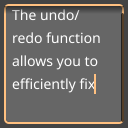
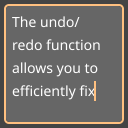
Refresh Entry scroll bounds when undo restores fitting content

Changed region(s): [[0.0938, 0.25, 0.7812, 0.7812], [0.0312, 0.0312, 0.9688, 0.9688], [0.625, 0.4375, 0.7812, 0.8125]]

diff --git a/widget/entry_scroll_internal_test.go b/widget/entry_scroll_internal_test.go
@@ -61,21 +61,13 @@ func TestEntry_UndoRestoresFittingViewport(t *testing.T) {
 	assert.Greater(t, e.scroll.Offset.Y, float32(0), "the caret scrolls into view")
 
 	e.TypedShortcut(&fyne.ShortcutUndo{})
-	c.Capture()
+	restored := encode(c.Capture())
 	logState("undo")
 	require.Equal(t, initialText, e.Text)
 	assert.Equal(t, initialRow, e.CursorRow, "undo restores the cursor row")
 	assert.Equal(t, initialColumn, e.CursorColumn, "undo restores the cursor column")
 	assert.LessOrEqual(t, e.scroll.Content.MinSize().Height, e.scroll.Size().Height, "restored text fits vertically")
-	if e.scroll.Content.MinSize().Height <= e.scroll.Size().Height {
-		assert.Zero(t, e.scroll.Offset.Y, "undo must clear scrolling when the restored text fits")
-	}
-
-	// Probe whether refreshing the scroll layout repairs the recorded stale state.
-	e.scroll.Refresh()
-	corrected := encode(c.Capture())
-	logState("undo-after-scroll-refresh")
-	assert.Zero(t, e.scroll.Offset.Y, "refresh clamps the offset of fitting content")
+	assert.Zero(t, e.scroll.Offset.Y, "undo clears scrolling when the restored text fits")
 	assert.Equal(t, e.scroll.Size(), e.scroll.Content.Size(), "fitting content uses the viewport size")
-	assert.True(t, bytes.Equal(initial, corrected), "restored text and cursor paint the original viewport")
+	assert.True(t, bytes.Equal(initial, restored), "restored text and cursor paint the original viewport")
 }

diff --git a/widget/entry.go b/widget/entry.go
@@ -1746,7 +1746,13 @@ func (r *entryRenderer) Refresh() {
 
 	r.entry.sel.Hidden = !r.entry.focused
 
-	cache.Renderer(r.entry.content).Refresh()
+	contentRenderer := cache.Renderer(r.entry.content).(*entryContentRenderer)
+	if r.scroll.Content != nil {
+		contentRenderer.updateScrollDirections()
+		r.scroll.Refresh()
+	} else {
+		contentRenderer.Refresh()
+	}
 	canvas.Refresh(r.entry.super())
 }
 

diff --git a/FORK-VALIDATION.md b/FORK-VALIDATION.md
@@ -34,6 +34,12 @@ in RGBA. Dimensions remain unchanged. The
 [fixture inventory](ci/fork-visual-reference.json) records source revisions,
 diagnostic results and every before/after SHA-256 hash.
 
+The fixture review also exposed stale Entry scroll geometry after undo. The
+[viewport regression](widget/entry_scroll_internal_test.go) verifies that typing
+an overflowing row and then undoing it restores the text, cursor, fitting bounds,
+zero scroll offset and the exact initial capture. Entry refresh now updates the
+active scroll layout before cursor visibility is calculated.
+
 ## Release checks
 
 [Fork conformance](.github/workflows/fork-conformance.yml) runs module

diff --git a/FORK-NOTICE.md b/FORK-NOTICE.md
@@ -32,6 +32,8 @@ records the complete changes since `.15`:
   helper extracted from dismissed-overlay dispatch to reduce function complexity.
 - Watcher tests that synchronize background callbacks on the test goroutine and
   close resources, with production watcher behavior preserved.
+- Entry refresh updates its scroll bounds after text shrinks, clearing stale
+  offsets when restored content fits the viewport.
 - Reviewed visual fixtures reflecting the existing nearest-pixel position
   rounding and multiline Entry row-spacing changes.
 

diff --git a/README.md b/README.md
@@ -17,6 +17,8 @@ The toolkit code and Sytue additions use Fyne's
 The `.16` maintenance release updates documentation, pinned regression CI,
 lint-safe refactoring and watcher-test synchronization. Reviewed visual fixtures
 reflect the fork's existing position rounding and multiline Entry row spacing.
+It also clears stale Entry scrolling when undo restores text that fits the
+viewport.
 
 ## Install
 
